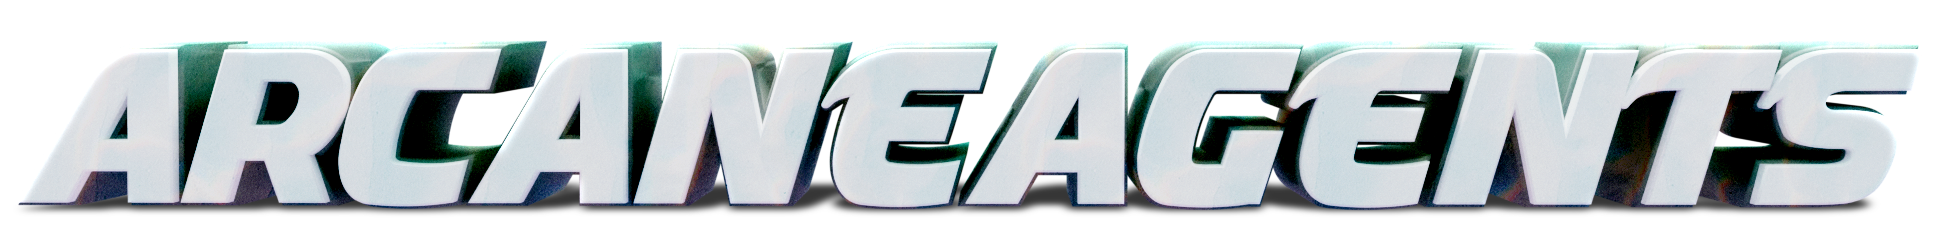
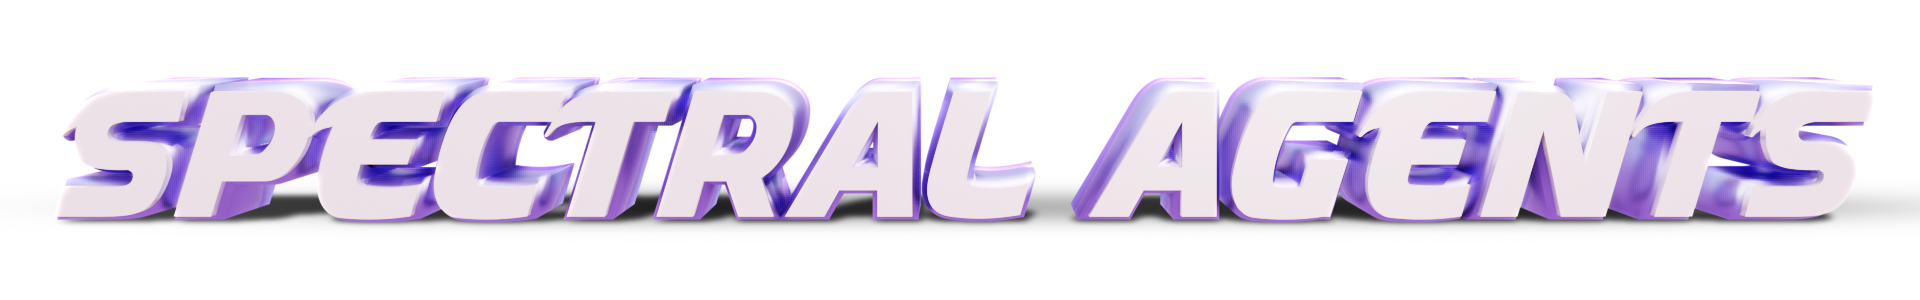
spectral-1

diff --git a/index.html b/index.html
@@ -35,8 +35,8 @@
             <a href="#" class="header__menu">
                <img src="img/menu.svg" alt="menu">
             </a>
-            <a href="index.html" style="padding: 2%;" >
-               <img src="img/arcanelogo.png" alt="logo">
+            <a href="index.html" style="padding: 2%;">
+               <img src="img/MS.png" alt="logo" style="width: 250px; height: auto;">
             </a>
             <ul class="header__navigation">
                <li class="navigation__item">
